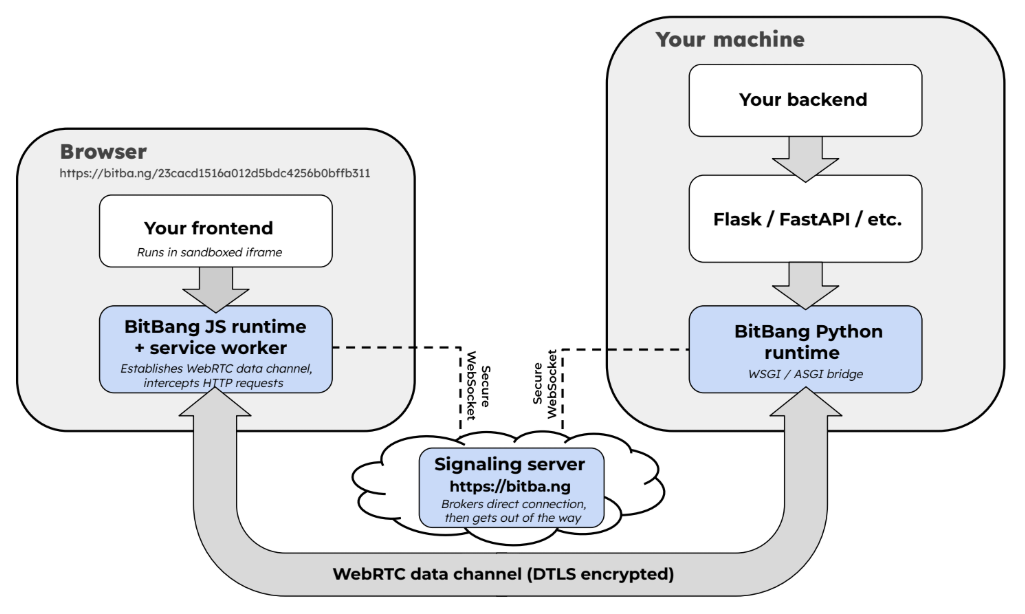
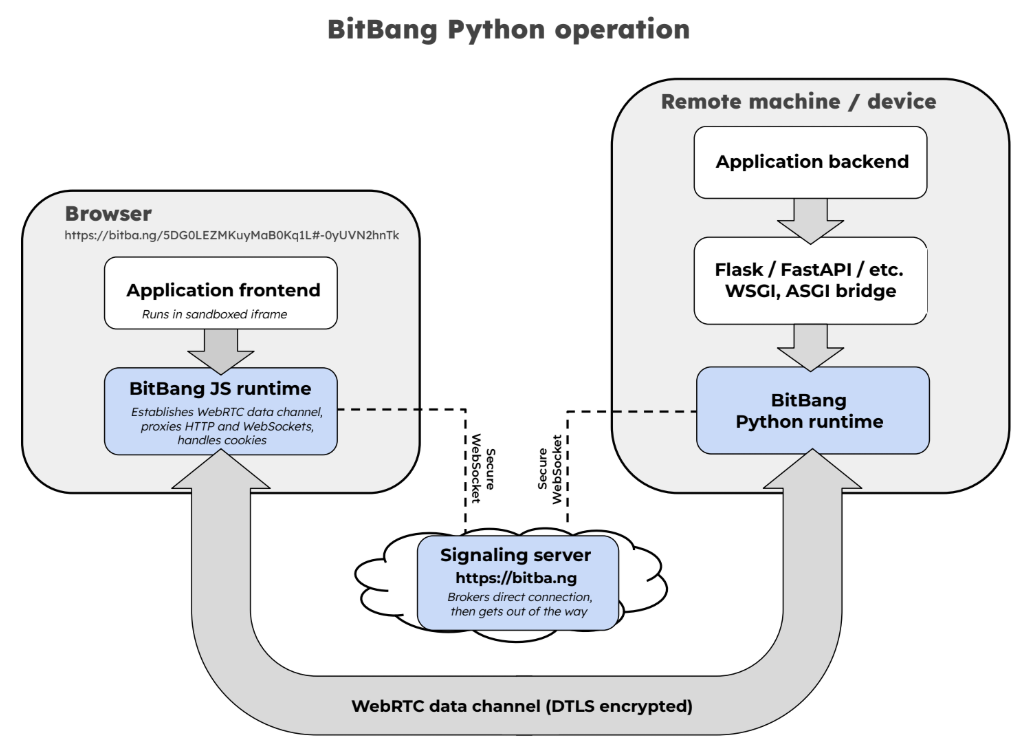
update readme

diff --git a/bitbang/adapter.py b/bitbang/adapter.py
@@ -98,11 +98,12 @@ def _extract_dtls_fingerprint(sdp: str) -> str:
     return m.group(1).upper() if m else ''
 SWSP_CHUNK_SIZE = 16384  # 16KB chunks
 
-BANNER = r"""   ___  _ __  ___
-  / _ )(_) /_/ _ )___ ____  ___ _
- / _  / / __/ _  / _ `/ _ \/ _ `/
-/____/_/\__/____/\_,_/_//_/\_, /
-                          /___/ """
+BANNER = r"""   ___         ___
+  / __\_ _    / __\
+ /__\/(_) |_ /__\// ___ ____  ___ _
+/ \/  \ |  _/ \/  \/ _ `/ _ \/ _ `/
+\_____/_|\__\_____/\_,_/_//_/\_, /
+                            /___/"""
 
 
 def _default_on_preempted():
@@ -433,7 +434,7 @@ class BitBangBase:
             url = self.url
             print(BANNER)
             from bitbang import __version__
-            print(f"v{__version__}")
+            print(f"bitbang-python v{__version__}")
             if self.debug:
                 import aiortc
                 print(f"  aiortc {aiortc.__version__}, websockets {websockets.__version__}, Python {sys.version.split()[0]}")

diff --git a/bitbang/identity.py b/bitbang/identity.py
@@ -308,7 +308,7 @@ def print_qr_code(url: str):
     try:
         import qrcode
         qr = qrcode.QRCode(
-            error_correction=qrcode.constants.ERROR_CORRECT_M,
+            error_correction=qrcode.constants.ERROR_CORRECT_L,
             box_size=1,
             border=1,
         )

diff --git a/README.md b/README.md
@@ -1,104 +1,81 @@
-# BitBang Python
+# bitbang-python
 
-![Tests](https://github.com/richlegrand/bitbang-python/actions/workflows/tests.yml/badge.svg)
-![PyPI](https://img.shields.io/pypi/v/bitbang)
-![Python](https://img.shields.io/pypi/pyversions/bitbang)
+**Turns your local Python web app into a URL you can open from anywhere.**
+
+`bitbang` wraps a WSGI or ASGI app (Flask, FastAPI, Quart) and prints a URL and QR code. Open the URL in any browser and you're connected to the app -- peer-to-peer, end-to-end encrypted, with no account, no port forwarding. 
+
+This is the Python implementation of [BitBang](https://github.com/richlegrand/bitbang). For remote access to a whole machine (shell, files, proxy) without writing code, see [bitbang-cli](https://github.com/richlegrand/bitbang-cli).
+
+[![Tests](https://github.com/richlegrand/bitbang-python/actions/workflows/tests.yml/badge.svg)](https://github.com/richlegrand/bitbang-python/actions/workflows/tests.yml)
+[![PyPI](https://img.shields.io/pypi/v/bitbang)](https://pypi.org/project/bitbang/)
+[![Python](https://img.shields.io/pypi/pyversions/bitbang)](https://pypi.org/project/bitbang/)
 ![License](https://img.shields.io/github/license/richlegrand/bitbang-python)
 
-Access your local web server from anywhere -- no account, no subscription, no cloud in the middle. BitBang uses WebRTC to connect browsers directly to your device, peer-to-peer.
+## Install
 
-This is part of the [BitBang project](https://github.com/richlegrand/bitbang). 
-
-
-## Quick demo
-
-Install:
-```bash
+```
 pip install bitbang              # Linux / macOS
-python -m pip install bitbang    # Windows (or any platform) 
+python -m pip install bitbang    # Windows (or any platform)
 ```
 
-Quick test:
-```bash
+## Quick test
+
+```
 bitbang-fileshare ~/Downloads            # Linux / macOS
 python -m bitbang fileshare ~/Downloads  # Windows (or any platform)
 ```
-![bitbang-fileshare](https://raw.githubusercontent.com/richlegrand/bitbang-python/refs/heads/main/assets/bitbang_screen.png)
 
-Scan the QR code, which contains the BitBang URL. Anyone with the URL can browse and download files directly from your machine, or they can upload files to the specified directory. Note, you can verify it works outside your local network, by scanning the QR code from a phone on cellular (turn off WiFi).
+This prints a URL and QR code. Anyone with the link can browse and download files directly from your machine, or upload files to the shared directory. To verify it works outside your local network, scan the QR code from a phone on cellular (turn off WiFi).
 
-## Flask / FastAPI integration (or any WSGI / ASGI web framework)
+## Flask / FastAPI integration (or any WSGI / ASGI framework)
 
-Take an existing Flask or FastAPI app and add remote access. 
-
+Take an existing app and give it a URL:
 
 ```python
-# Flask 
+# Flask
 from bitbang import BitBangWSGI
-...
+
 app = Flask(__name__)
 adapter = BitBangWSGI(app)
 adapter.run()  # Prints QR code and public URL
 ```
 
 ```python
-# FastAPI 
+# FastAPI
 from bitbang import BitBangASGI
-...
+
 app = FastAPI()
 adapter = BitBangASGI(app)
-adapter.run() # Prints QR code and public URL
+adapter.run()  # Prints QR code and public URL
 ```
 
-## Comparison
+The `examples/` directory contains a minimal version of each:
 
-| | ngrok | Cloudflare Tunnel | Tailscale | BitBang |
-|---|---|---|---|---|
-| Account required | Yes | Yes | Yes | No |
-| Free tunnels | 1 | Unlimited | Unlimited | Unlimited |
-| Data path | Their servers | Their servers | P2P | P2P |
-| Viewer needs install | No | No | Yes | No |
-| Configuration | CLI flags | Config file + DNS | Dashboard | None |
+```
+cd examples/simple_fastapi && python3 app.py
+cd examples/simple_flask && python3 app.py
+```
 
-BitBang's data path is direct between peers. The signaling server brokers the initial connection, then steps aside.
+## Bundled apps
 
----
+**Fileshare** shares local files without uploading them to a third-party service. Files transfer directly from your machine to the recipient, and the recipient can upload files back. It's also intended as an example of a simple BitBang application -- it's a straightforward Flask app.
 
-## Fileshare
-
-Fileshare allows you to easily/quickly share local files without uploading them to a third-party service. It's intended to be an example of a simple (yet useful!) BitBang application. It's just a straightforward Flask app.
-
-```bash
+```
 bitbang-fileshare big_sourcetree.tar.gz       # Share a single file
 bitbang-fileshare ~/Documents/project         # Share a directory (uploads enabled)
 python -m bitbang fileshare c:\ide\files      # Windows
 ```
 
-Files transfer directly from your machine to the recipient. The recipient can also upload files to your machine.
+**Webcam** streams video from your webcam to a browser over WebRTC media channels -- an easy-to-set-up monitoring camera using a laptop, for example.
 
-## Webcam
-
-The Webcam app streams video from your webcam to a browser using WebRTC media channels and BitBang. It can be used as an easy-to-setup monitoring/security camera using your laptop, for example.
-
-```bash
+```
 bitbang-webcam                  # Linux / macOS
 python -m bitbang webcam        # Windows (or any platform)
 ```
 
-## Examples
-
-The `examples/` directory contains two simple examples which show how to integrate BitBang into your current Python web frameworks:
-
-```bash
-cd examples/simple_fastapi && python3 app.py
-cd examples/simple_flask && python3 app.py
-```
-
----
-
 ## Python API
 
-These options are available from the BitBang constructor (same options for BitBangASGI):
+These options are available from the `BitBangWSGI` constructor (same options for `BitBangASGI`):
 
 ```python
 adapter = BitBangWSGI(app,
@@ -107,30 +84,14 @@ adapter = BitBangWSGI(app,
     ephemeral=False,           # Use a temporary identity (not saved to disk)
     identity_path=None,        # Use a specific identity file
     regenerate=False,          # Delete and regenerate identity
-    debug=False,               # Verbose logging + browser debug UI (!debug)
+    debug=False,               # Verbose logging + browser debug UI (?debug)
     pin=None,                  # PIN string to protect access
+    pin_callback=None,         # Function(path, pin) -> bool for custom auth
     ice_servers=None,          # Custom TURN server config
 )
 ```
 
-For per-path custom auth, register a PIN checker as a decorator:
-
-```python
-adapter = BitBangWSGI(app)
-
-@adapter.pin_callback
-def check(path, pin):
-    """Return True if `pin` (may be '') is acceptable for `path`."""
-    if path.startswith('/admin'):
-        return pin == '1234'
-    return True   # everything else is open
-```
-
-The decorator takes precedence over the simple ``pin=`` arg. Called once
-with ``pin=''`` to ask "is a PIN required for this path?", then with the
-entered PIN to validate.
-
-If your app uses argparse, `add_bitbang_args` and `bitbang_kwargs` can wire up the standard CLI flags for you:
+If your app uses argparse, `add_bitbang_args` and `bitbang_kwargs` wire up the standard CLI flags:
 
 ```python
 from bitbang.adapter import BitBangWSGI, add_bitbang_args, bitbang_kwargs
@@ -143,13 +104,13 @@ args = parser.parse_args()
 adapter = BitBangWSGI(app, **bitbang_kwargs(args, program_name='myapp'))
 ```
 
-These options appear like this on the command line:
+These options appear on the command line as:
 
 ```
 --ephemeral              Use a temporary identity
 --identity PATH          Use a specific identity file
 --regenerate             Delete and regenerate identity
---server HOST            Signaling server hostname 
+--server HOST            Signaling server hostname
 --turn-url URL           TURN server URL (e.g. turn:myserver.com:3478)
 --turn-user USER         TURN server username
 --turn-credential PASS   TURN server credential
@@ -157,71 +118,28 @@ These options appear like this on the command line:
 --debug                  Enable verbose logging and browser debug UI
 ```
 
-When `--debug` is enabled, the printed URL includes `!debug` in the fragment, which activates a browser-side debug UI showing connection steps (connecting to server, waiting for device, establishing peer connection). Without it, the browser shows a simple "Loading..." while connecting.
+With `--debug`, the printed URL includes `?debug`, which activates a browser-side debug UI showing connection steps. Without it, the browser shows a simple "Loading..." while connecting.
 
-Each app gets its own persistent RSA keypair and URL, stored in `~/.bitbang/<program_name>/identity.pem`. This means the URL for each BitBang program stays the same across restarts. Use `--regenerate` to get a new URL, or `--ephemeral` for a one-time session.
+### Identity and URLs
 
-`bitba.ng` provides a TURN server when a peer-to-peer connection isn't possible, but you can provide your own TURN server if you prefer via the command-line options or through the constructor by specifying `ice_servers` in browser-native WebRTC format. The defaults should work fine though, so you shouldn't need to provide these.  
+Each app gets its own persistent RSA keypair, stored at `~/.bitbang/<program_name>/identity.pem`. The public key hash becomes the app's 128-bit ID, used in its URL -- so the URL stays the same across restarts. Use `--regenerate` for a new URL, or `--ephemeral` for a one-time session.
 
----
+### TURN
 
-## Background
-
-The Internet is often thought of as a fully connected network -- every machine is accessible from every other machine. But there are rules governing accessibility on the Internet... 
-
-### Rules of Internet Accessibility
-
-1. Machines on the Internet are accessible by other machines on the Internet -- and by machines on your local network.
-2. Machines on your local network are only accessible by other machines on your local network.
-
-Because of rule 2, machines on your local network aren't reachable from outside -- nor are the resources they hold: files, cameras, sensors, compute, or the web app you're currently developing. Cloud services exist to fill this gap: Dropbox for files, AWS IoT for sensors, Tailscale for compute, and ngrok for web apps -- among others. These services apply rule 1, but each comes with the friction of account creation, fees, and your data living on someone else's server.
-
-BitBang connects a browser directly to any machine on your local network, from anywhere on the Internet. No cloud intermediary, no account, no third party in the middle. It uses a novel application of the peer-to-peer technology WebRTC. 
-
-### WebRTC?
-
-WebRTC is the behind-the-scenes technology that makes Zoom and Google Meet video conferencing possible. WebRTC offers the highest bandwidth and lowest latency possible, which is good when you're streaming live video, or practically anything else. It's mature, well-tested, and has ubiquitous support across all browsers. In addition to delivering low-latency media, it can also deliver raw data over "data channels", which is what BitBang uses for proxying HTML and WebSockets.
-
+When a direct peer-to-peer connection isn't possible, `bitba.ng` provides a TURN relay, which carries only ciphertext. You can supply your own TURN server via the command-line options or the `ice_servers` constructor argument (browser-native WebRTC format). The defaults work fine for most setups.
 
 ## How it works
 
-Browsers normally connect to web servers over a TCP socket. BitBang replaces this with a WebRTC data channel.
+Browsers normally connect to web servers over a TCP socket. BitBang replaces this with a WebRTC data channel:
 
-![BitBang Python Block Diagram](https://raw.githubusercontent.com/richlegrand/bitbang-python/refs/heads/main/assets/bitbang_python.png)
+![BitBang Python block diagram](https://raw.githubusercontent.com/richlegrand/bitbang-python/refs/heads/main/assets/bitbang_python.png)
 
-The signaling server (`bitba.ng`) brokers the WebRTC handshake, then has no further involvement and never sees application data.
-
-## Signaling server
-
-The signaling server source is available [here](https://github.com/richlegrand/bitbang-server). It:
-
-1. Serves the BitBang browser runtime
-2. Authenticates connecting devices via RSA challenge
-3. Maintains WebSocket connections to active devices
-4. Brokers ICE candidate and SDP exchange between browsers and devices
-
-After the P2P connection is established, the signaling server is not involved. We are providing a signaling server for testing, etc. at https://bitba.ng. It mostly brokers connections, so it doesn't need many resources. 
-
-## Code pairing
-
-BitBang also supports a short 6-digit "pairing code" for sharing access without copying a long URL — the connector enters the code, both sides verify a Short Authentication String (SAS) out of band, and credentials are delivered over the encrypted data channel. This is currently implemented in [bitbang-cli](https://github.com/richlegrand/bitbang-cli) only; Python support for code pairing is on the to-do list. The protocol design lives in the [BitBang project](https://github.com/richlegrand/bitbang/blob/main/code_exchange.md) (`code_exchange.md`).
-
-## Security
-
-WebRTC mandates encryption:
-
-- **Data channels**: DTLS 1.2+
-- **Media streams**: SRTP 
-- **Signaling**: HTTPS and WSS
-
-Furthermore, each BitBang "device" generates an RSA keypair. The public key hash becomes its unique 128-bit ID, which is used in its BitBang public URL. A 64-bit access code rides in the URL fragment (after `#`) so the signaling server — which sees the path but never the fragment — can route connections but cannot initiate them. See [SECURITY.md](https://github.com/richlegrand/bitbang-server/blob/main/SECURITY.md) for the full trustless-signaling model.
-
----
+The signaling server brokers the WebRTC handshake, then has no further involvement and never sees application data. The full story -- architecture, trust model, and origin -- is in the [BitBang project README](https://github.com/richlegrand/bitbang), the [whitepaper](https://github.com/richlegrand/bitbang/blob/main/whitepaper.md), and [Trustless Signaling](https://github.com/richlegrand/bitbang/blob/main/trustless-signaling.md).
 
 ## License
 
-MIT See [LICENSE](LICENSE).
+MIT
 
 ## Contributing
 
-Issues and PRs are welcome. 
+Issues and pull requests are welcome.
